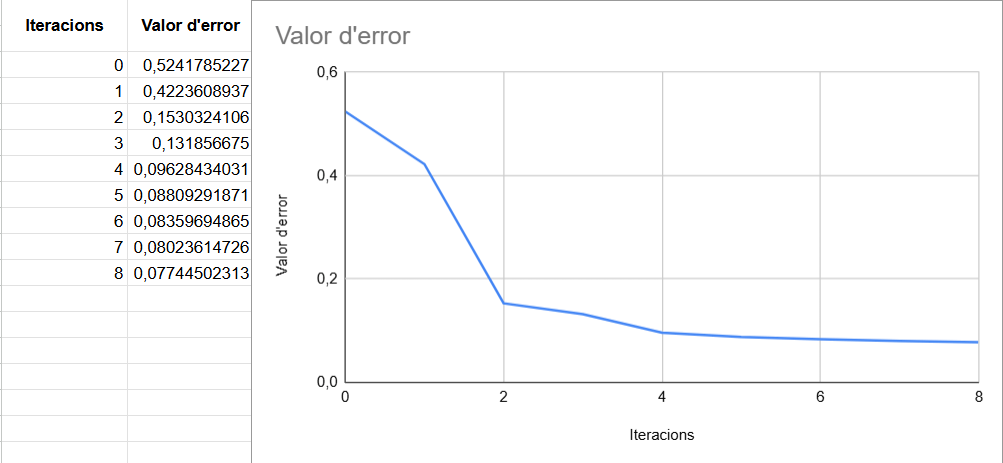
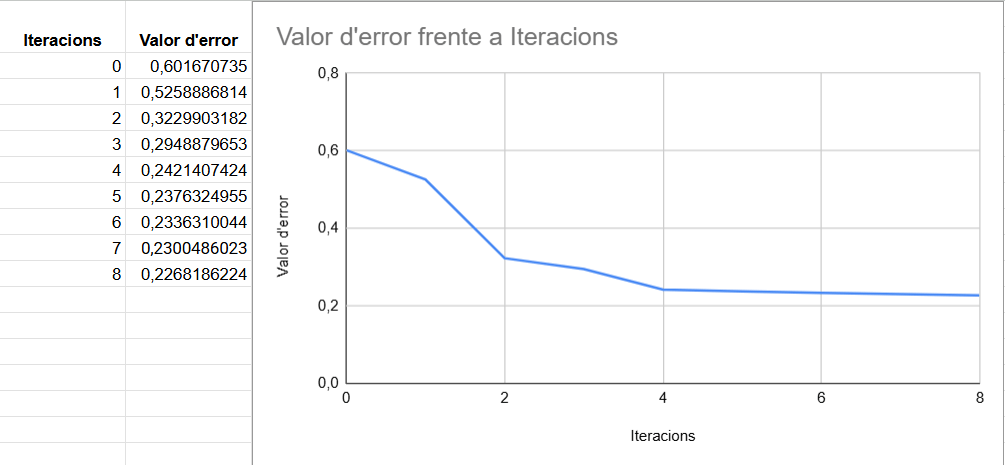
He posat els resultats de la pràctica i he modificat la introducció

diff --git a/memoria_RJ/capitols/introduccio/introduccio.tex b/memoria_RJ/capitols/introduccio/introduccio.tex
@@ -1,8 +1,8 @@
 \chapter{Introducció}
 \label{c:intro}
-En el nostre dia i dia consumim continguts digitals de manera constant: visualitzem vídeos curts, fem fotografies, realitzem revisions corporals, juguem a videojocs o naveguem per Internet. Darrere de moltes d’aquestes activitats hi trobem la presència de la intel·ligència artificial (IA), que juga un paper rellevant en àmbits tan diversos com els suggeriments de continguts audiovisuals, el diagnòstic mèdic, la gestió i distribució de la informació o l’optimització d’imatges.
+En el nostre dia a dia consumim continguts digitals de manera constant: visualitzem vídeos curts, fem fotografies, realitzem revisions corporals, juguem a videojocs, naveguem per Internet, entre moltes altres coses. Darrere de totes aquestes activitats hi trobem la presència de la intel·ligència artificial (IA), que té un paper rellevant en àmbits tan diversos com els suggeriments de continguts audiovisuals, el diagnòstic mèdic, la gestió i distribució de la informació o l’optimització d’imatges.
 
-Aquest protagonisme fa que, actualment, la IA sigui cada vegada més demandada en els entorns industrials i professionals. Tanmateix, la probesa de coneixements especialitzats i la complexitat pròpia d’aquest camp fan que relativament poques persones decideixin dedicar-s’hi.
+Aquest protagonisme fa que, actualment, la IA sigui cada vegada més demandada en els entorns industrials i professionals. Tanmateix, la falta de coneixements especialitzats i la complexitat pròpia del camp fan que poques persones decideixin a dedicar-s’hi.
 
 Amb aquesta situació com a punt de partida, la nostra intenció és introduir-nos en el camp de la intel·ligència artificial, aprofitant l’oportunitat que ens ofereix el treball de recerca i amb la voluntat de treure’n el màxim profit. La nostra motivació principal és adquirir una formació que ens permeti preparar-nos als reptes del futur i obtenir un avantatge competitiu en la nostra trajectòria acadèmica i professional.
 
@@ -20,6 +20,7 @@ Un cop explicat l’objectiu del treball, volem aclarir les motivacions i les ra
  \item Una altra raó que ens va permetre escollir aquest tema és la gran quantitat i diversitat de recursos disponibles a Internet. A més, el nostre tutor, Fernando García, és matemàtic i informàtic, fet que ens facilita la feina. També un amic nostre ens va oferir recursos externs per elaborar la part pràctica de la xarxa neuronal amb el full de càlcul.
 
  \item El nostre tutor ens va proposar diversos temes, i finalment vam escollir aquest per l’interès que ens va despertar.
+ A mès, desprès d'haber escollit aquest tema, el nostre tutor es va posar en contacte amb profesors d'universitats per proposar-nos els tipus de treballs pràctis que podriem escollir, gràcies a això teniem molts videos i contingut per veure.
 
  \item El nostre interès per la programació ha estat també una motivació fonamental en aquest treball.
 

diff --git a/memoria_RJ/capitols/resultats/resultats.tex b/memoria_RJ/capitols/resultats/resultats.tex
@@ -1,3 +1,26 @@
 \chapter{Resultats}
 \label{c:Resultats}
-HelloWorld
+\section{Resultats de la xarxa neuronal en fulls de càlculs}
+Desprès de finalitzar totes les etapes, els pesos s'han ajustat correctament i, encara que l'error no s'hagi pogut aproximar-se molt al zero absolut, ja és un valor molt petit que podem donar per bo. En la seguent figura podem veure els valors dels pesos finals del model.
+
+\begin{figure}[H]
+    \centering
+    \includegraphics[width=0.5\textwidth]{./figures/Pesos_finals.png}
+    \caption{Pesos finals del model}
+\end{figure}
+
+Amb aquests pesos, el model hauria de ser capaç d'obtenir unes prediccions precises respecte a la nota final dels alumnes, per obtenir els valors finals de la predicció, hem de convertir els valors normalitzats de la columna de la predicció de Y de l'última etapa en valors normals, aïllant en la mateixa fòrmula que vam emprar per normalitzar les dades.\\
+$z = \frac{x - \mu}{\sigma}$\\
+
+\begin{figure}[H]
+    \centering
+    \includegraphics[width=0.5\textwidth]{./figures/Resultat_final.png}
+    \caption{Prediccions finals de la pràctica}
+\end{figure}
+
+En la figura d'adalt, desprès de desnormalitzar els valors, he organitzat les notes inicials i les prediccions finals en unes taules per visualitzar-los millor, a un costat tenim les notes originals i per l'altre les predictives.
+
+Hem de tenir en compte de que les notes finals dels alumnes estan arrodonides, per tant considerarem que la predicció ha estat encertada si té un marge d'error menor a 0,5. Això ens dona que la xarxa neuronal ha encertat 10 notes de 15, per tant té una precisió aproximada del 66,7 percent.
+
+\section{Comparació entre una xarxa neurnal creada per un llenguatge de programació netre una de fulls de calculs}
+En aquest capítol, desprès de que cadascún de nosaltras haguèssim acabat les nostres respectives pràctiques, compararem els nostres resultats finals i veurem quina de les 2 formers té més precisió.

diff --git a/memoria_RJ/capitols/part_pràctica/part_pràctica.tex b/memoria_RJ/capitols/part_pràctica/part_pràctica.tex
@@ -538,19 +538,16 @@ A partir d'ara hem de fer ho mateix repetidament fins que el canvi de l'error en
 \subsection{Resultats}
 En aquest cas, ha calgut 8 etàpes per arribar al punt de conncia.vergè He organitzat els valors de l'error de cada època en una gràfica per que sigui més fàcil visualitzar els canvis
 
-\begin{comment}
+
 \begin{figure}[H]
     \centering
     \includegraphics[width=0.5\textwidth]{./figures/Gràfica_error.png}
     \caption{Gràfica dels valors d'error en cada època}
 \end{figure}
-\end{comment}
+
 
 
 En la figura d'adalt podem apreciar que l'error ha disminuit dràsticament entre l'època 0 fins l'època 4, pero després de la cinquena època l'error pràcticament no s'ha mogut, vaig ajustar la taxa d'aprenentatge moltes vegades pero l'error encara baixava molt lentament, fins que vaig arribar a l'etapa 8. Això vol dir que el model no podia ajustar més els pesos.
 
-\section{Comparació entre una xarxa neurnal creada per un llenguatge de programació netre una de fulls de calculs}
-En aquest capítol, desprès de que cadascún de nosaltras haguèssim acabat les nostres respectives pràctiques, compararem els nostres resultats finals i veurem quina de les 2 formers té més precisió.
 
-Hem de tenir en compte de que les notes finals dels alumnes estan arrodonides, per tant considerarem que la predicció ha estat encertada si té un marge d'error menor a 0,5.
 \section{Xarxa Neuronal amb un cas real}\label{sec:12}
